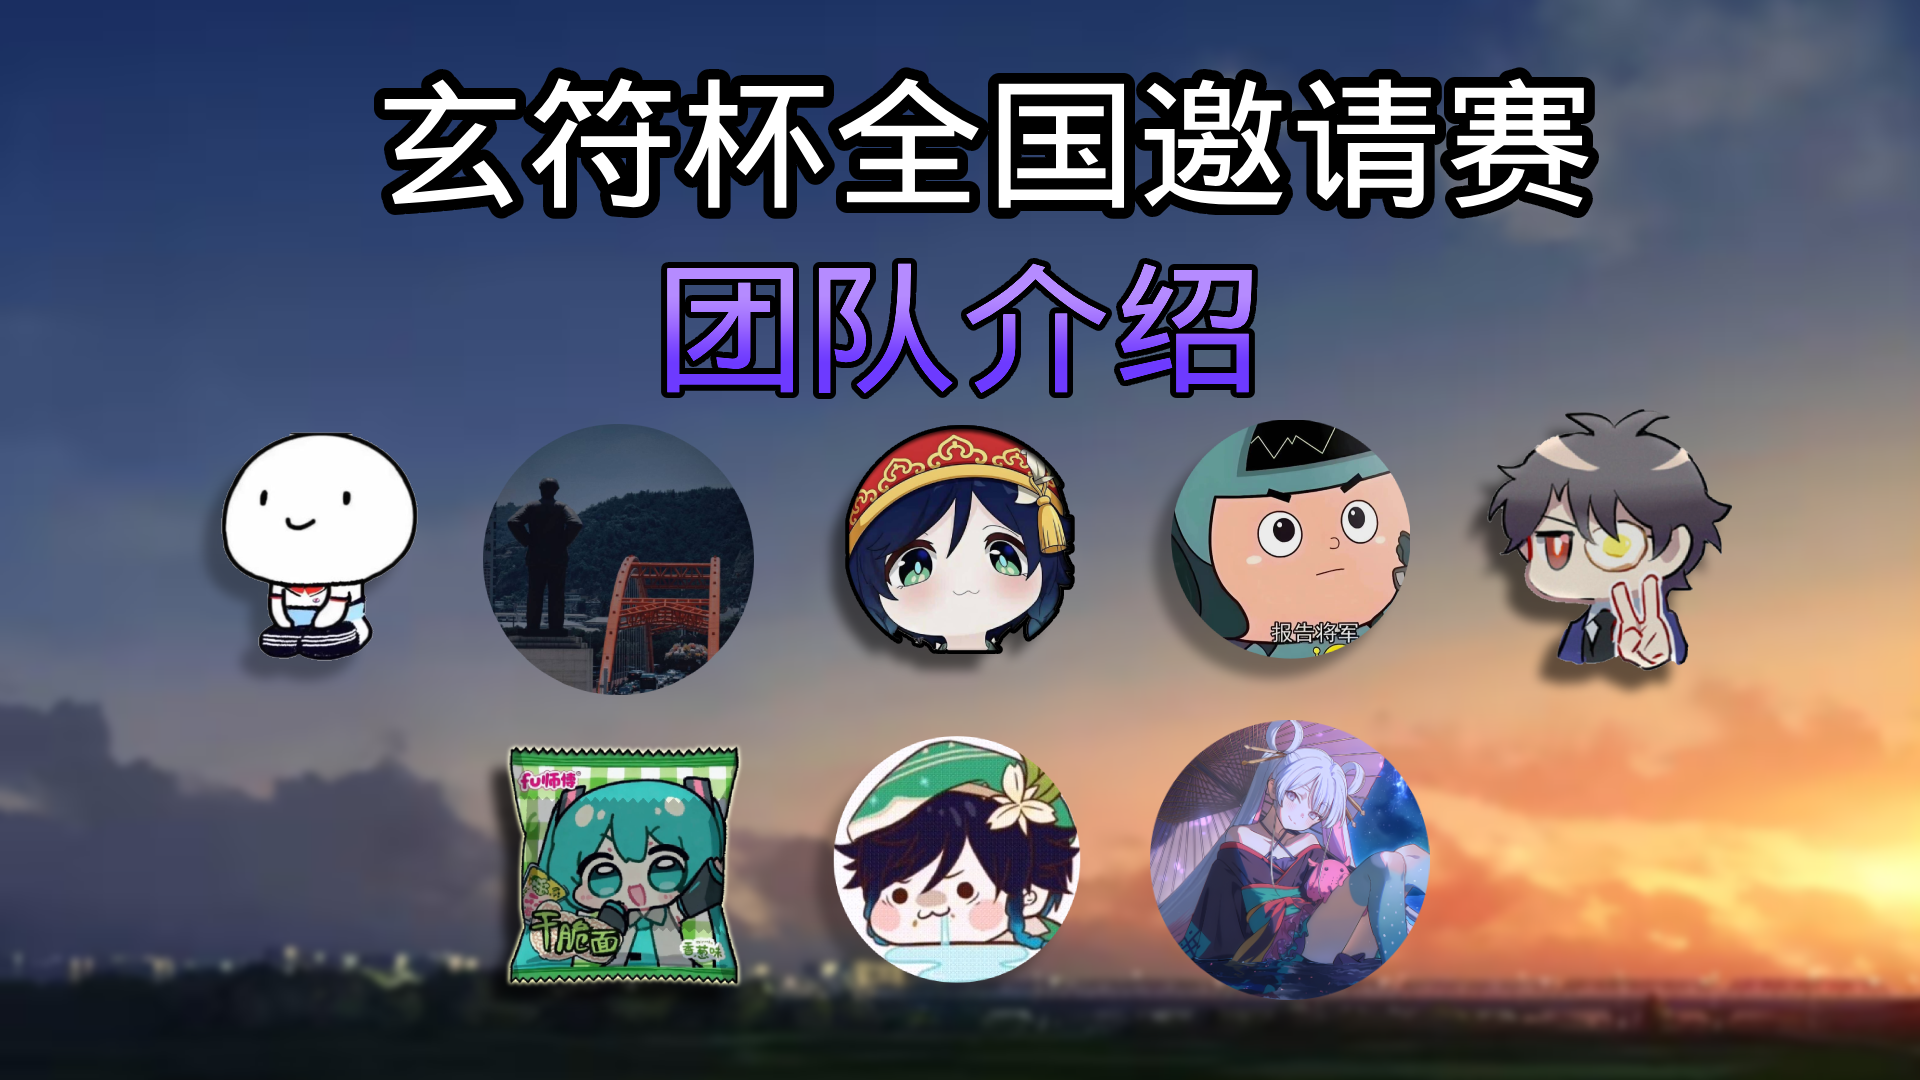
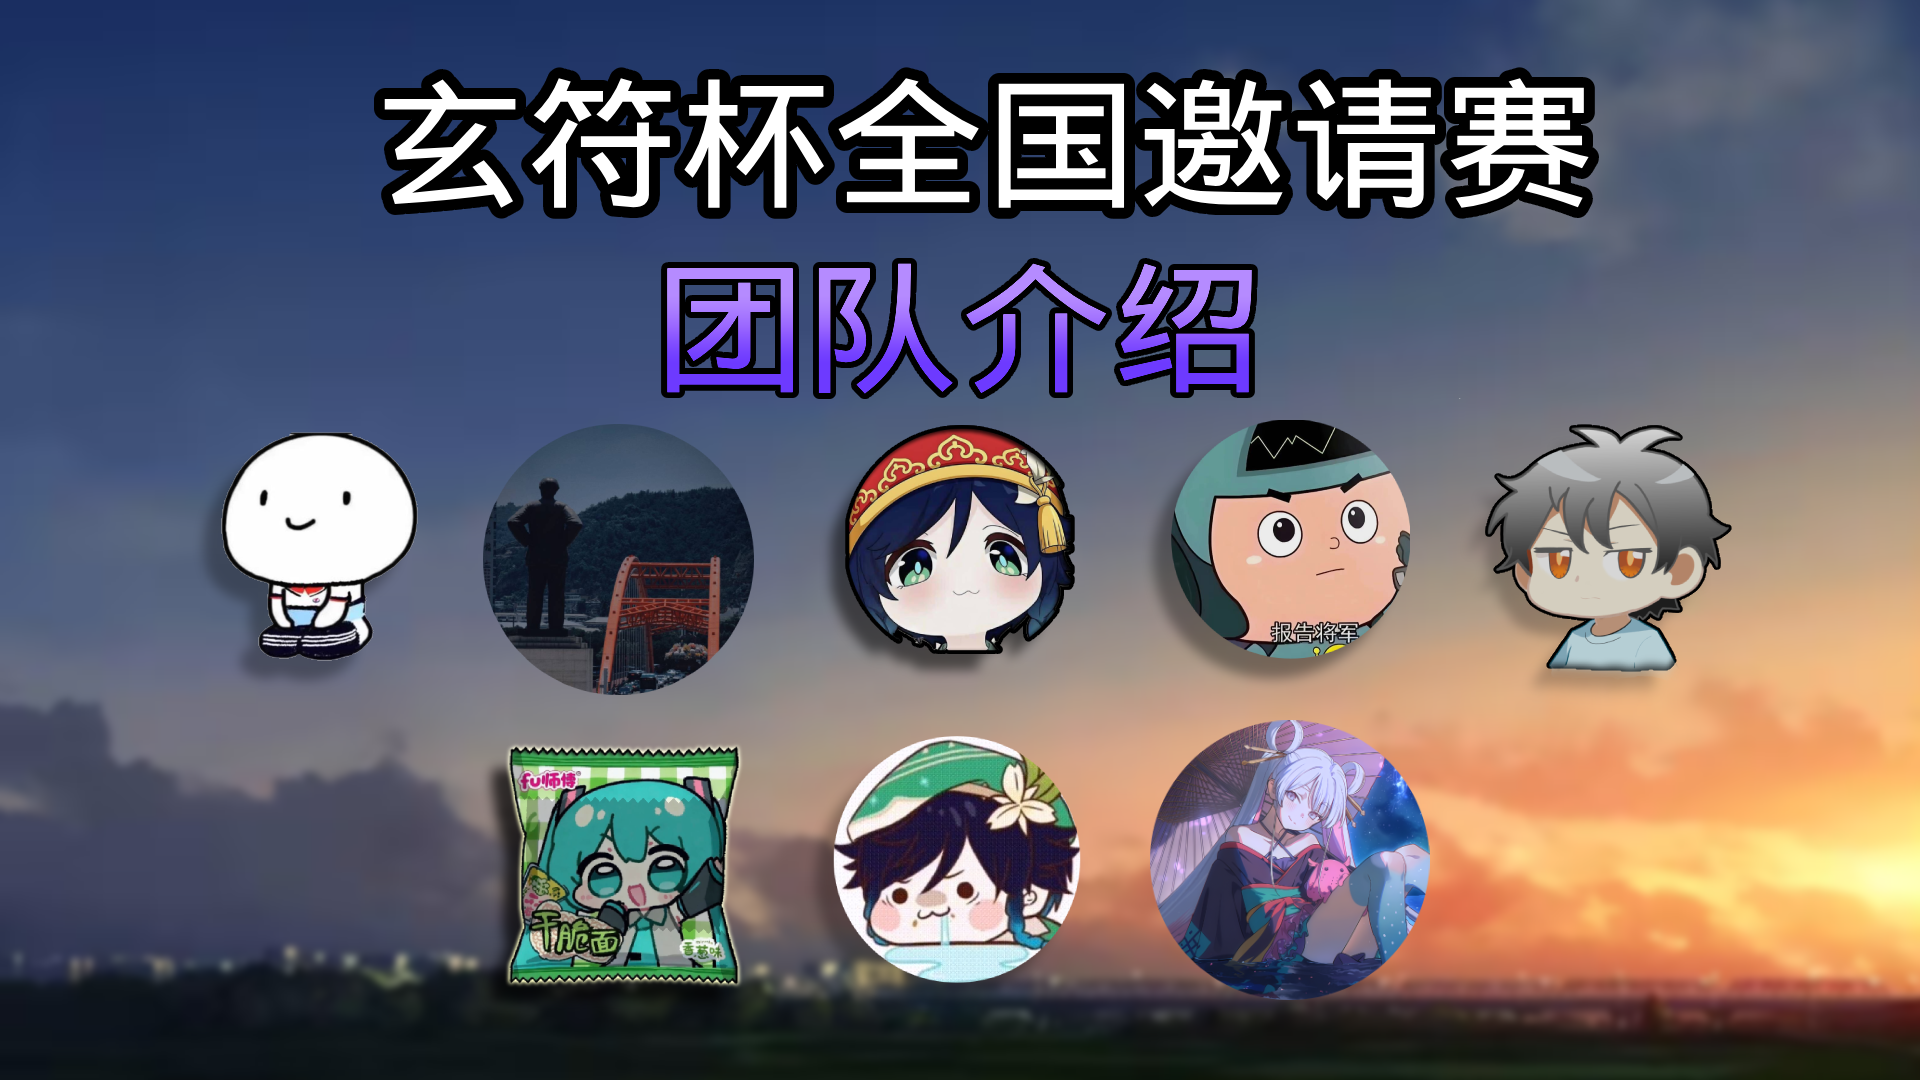
成员介绍更新

Changed region(s): [[0.75, 0.3667, 0.9062, 0.6417]]

diff --git a/list-bv1.html b/list-bv1.html
@@ -146,14 +146,14 @@
                         <div class="member-text">
                             <p class="member-name">南北回归线</p>
                             <p class="member-info">
-                            &emsp;b站id：Fappyle_蓬
-                            <br>&emsp;b站uid：1263699982
+                            &emsp;b站id：宁晏_ny
+                            <br>&emsp;b站uid：3546732252105006
                             <br>&emsp;“玄符杯”第一届一等奖、最高分
                             <br>&emsp;“玄符杯”第二届命题成员
                             </p>
                         </div>
                         <div class="member-img">
-                            <img src="img\bv1\nbhgx.jpg" alt="">
+                            <img src="img\bv1\No image editing involved.png" alt="">
                         </div>
                     </div>
                     <br>
